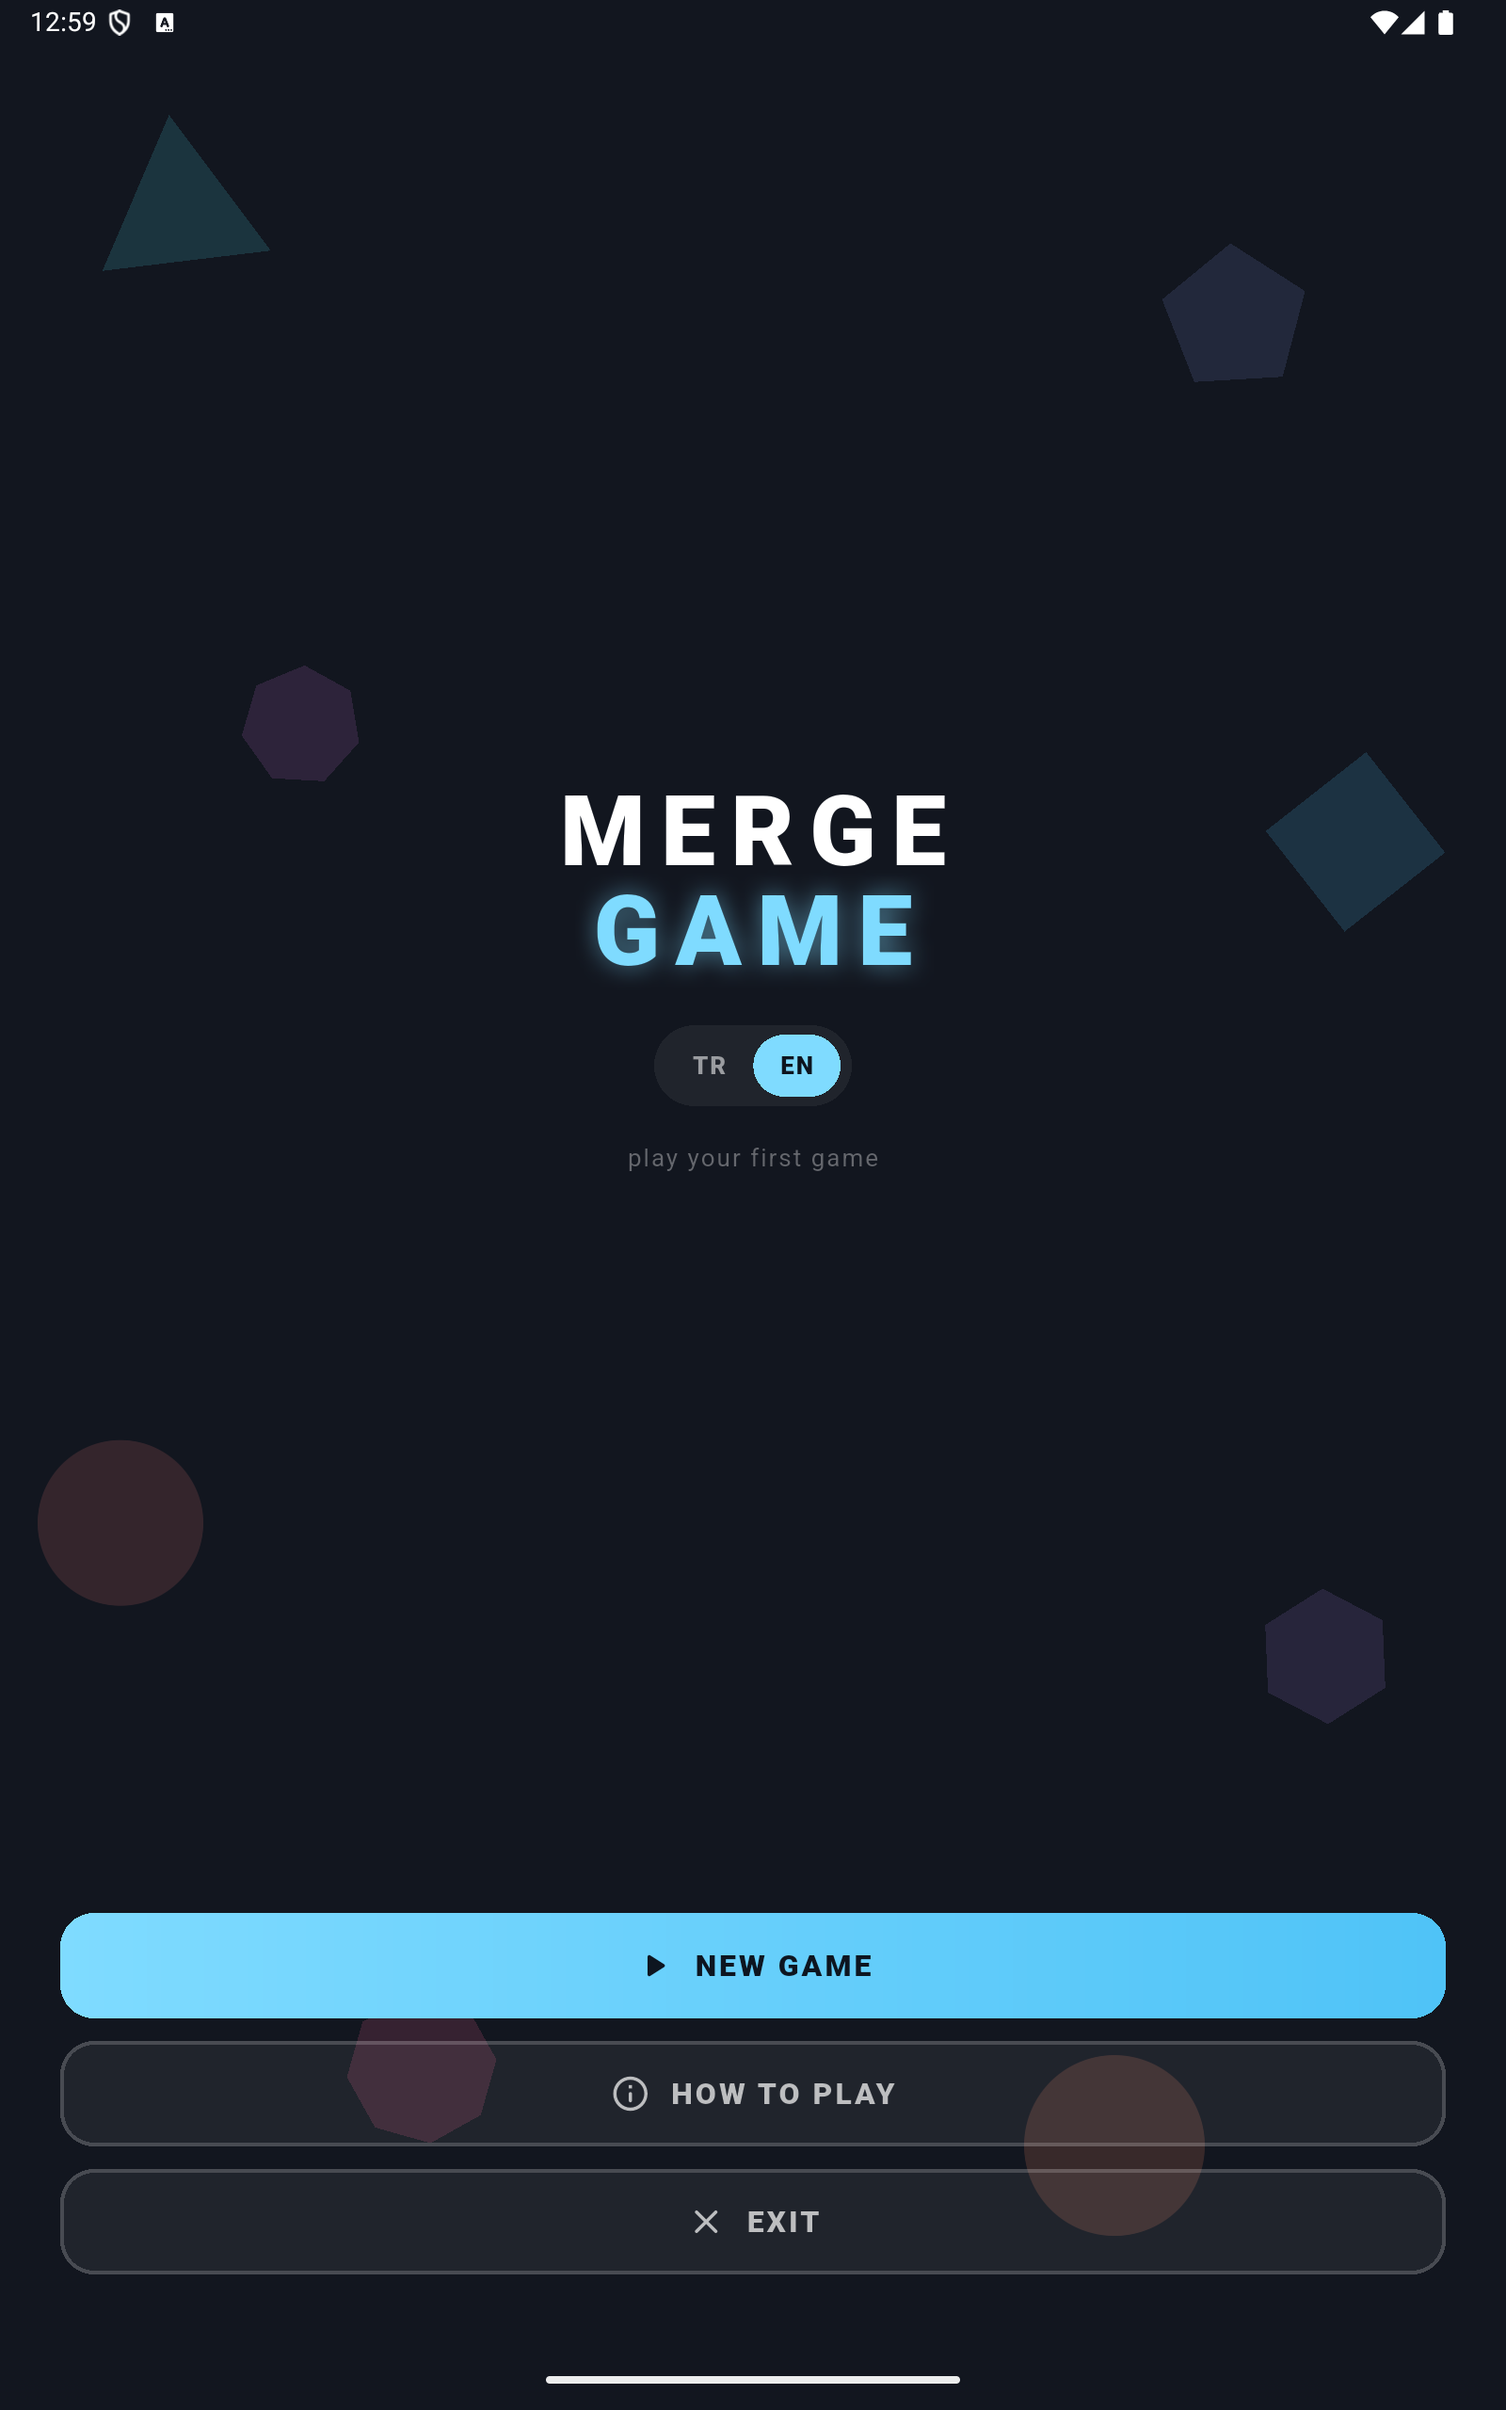
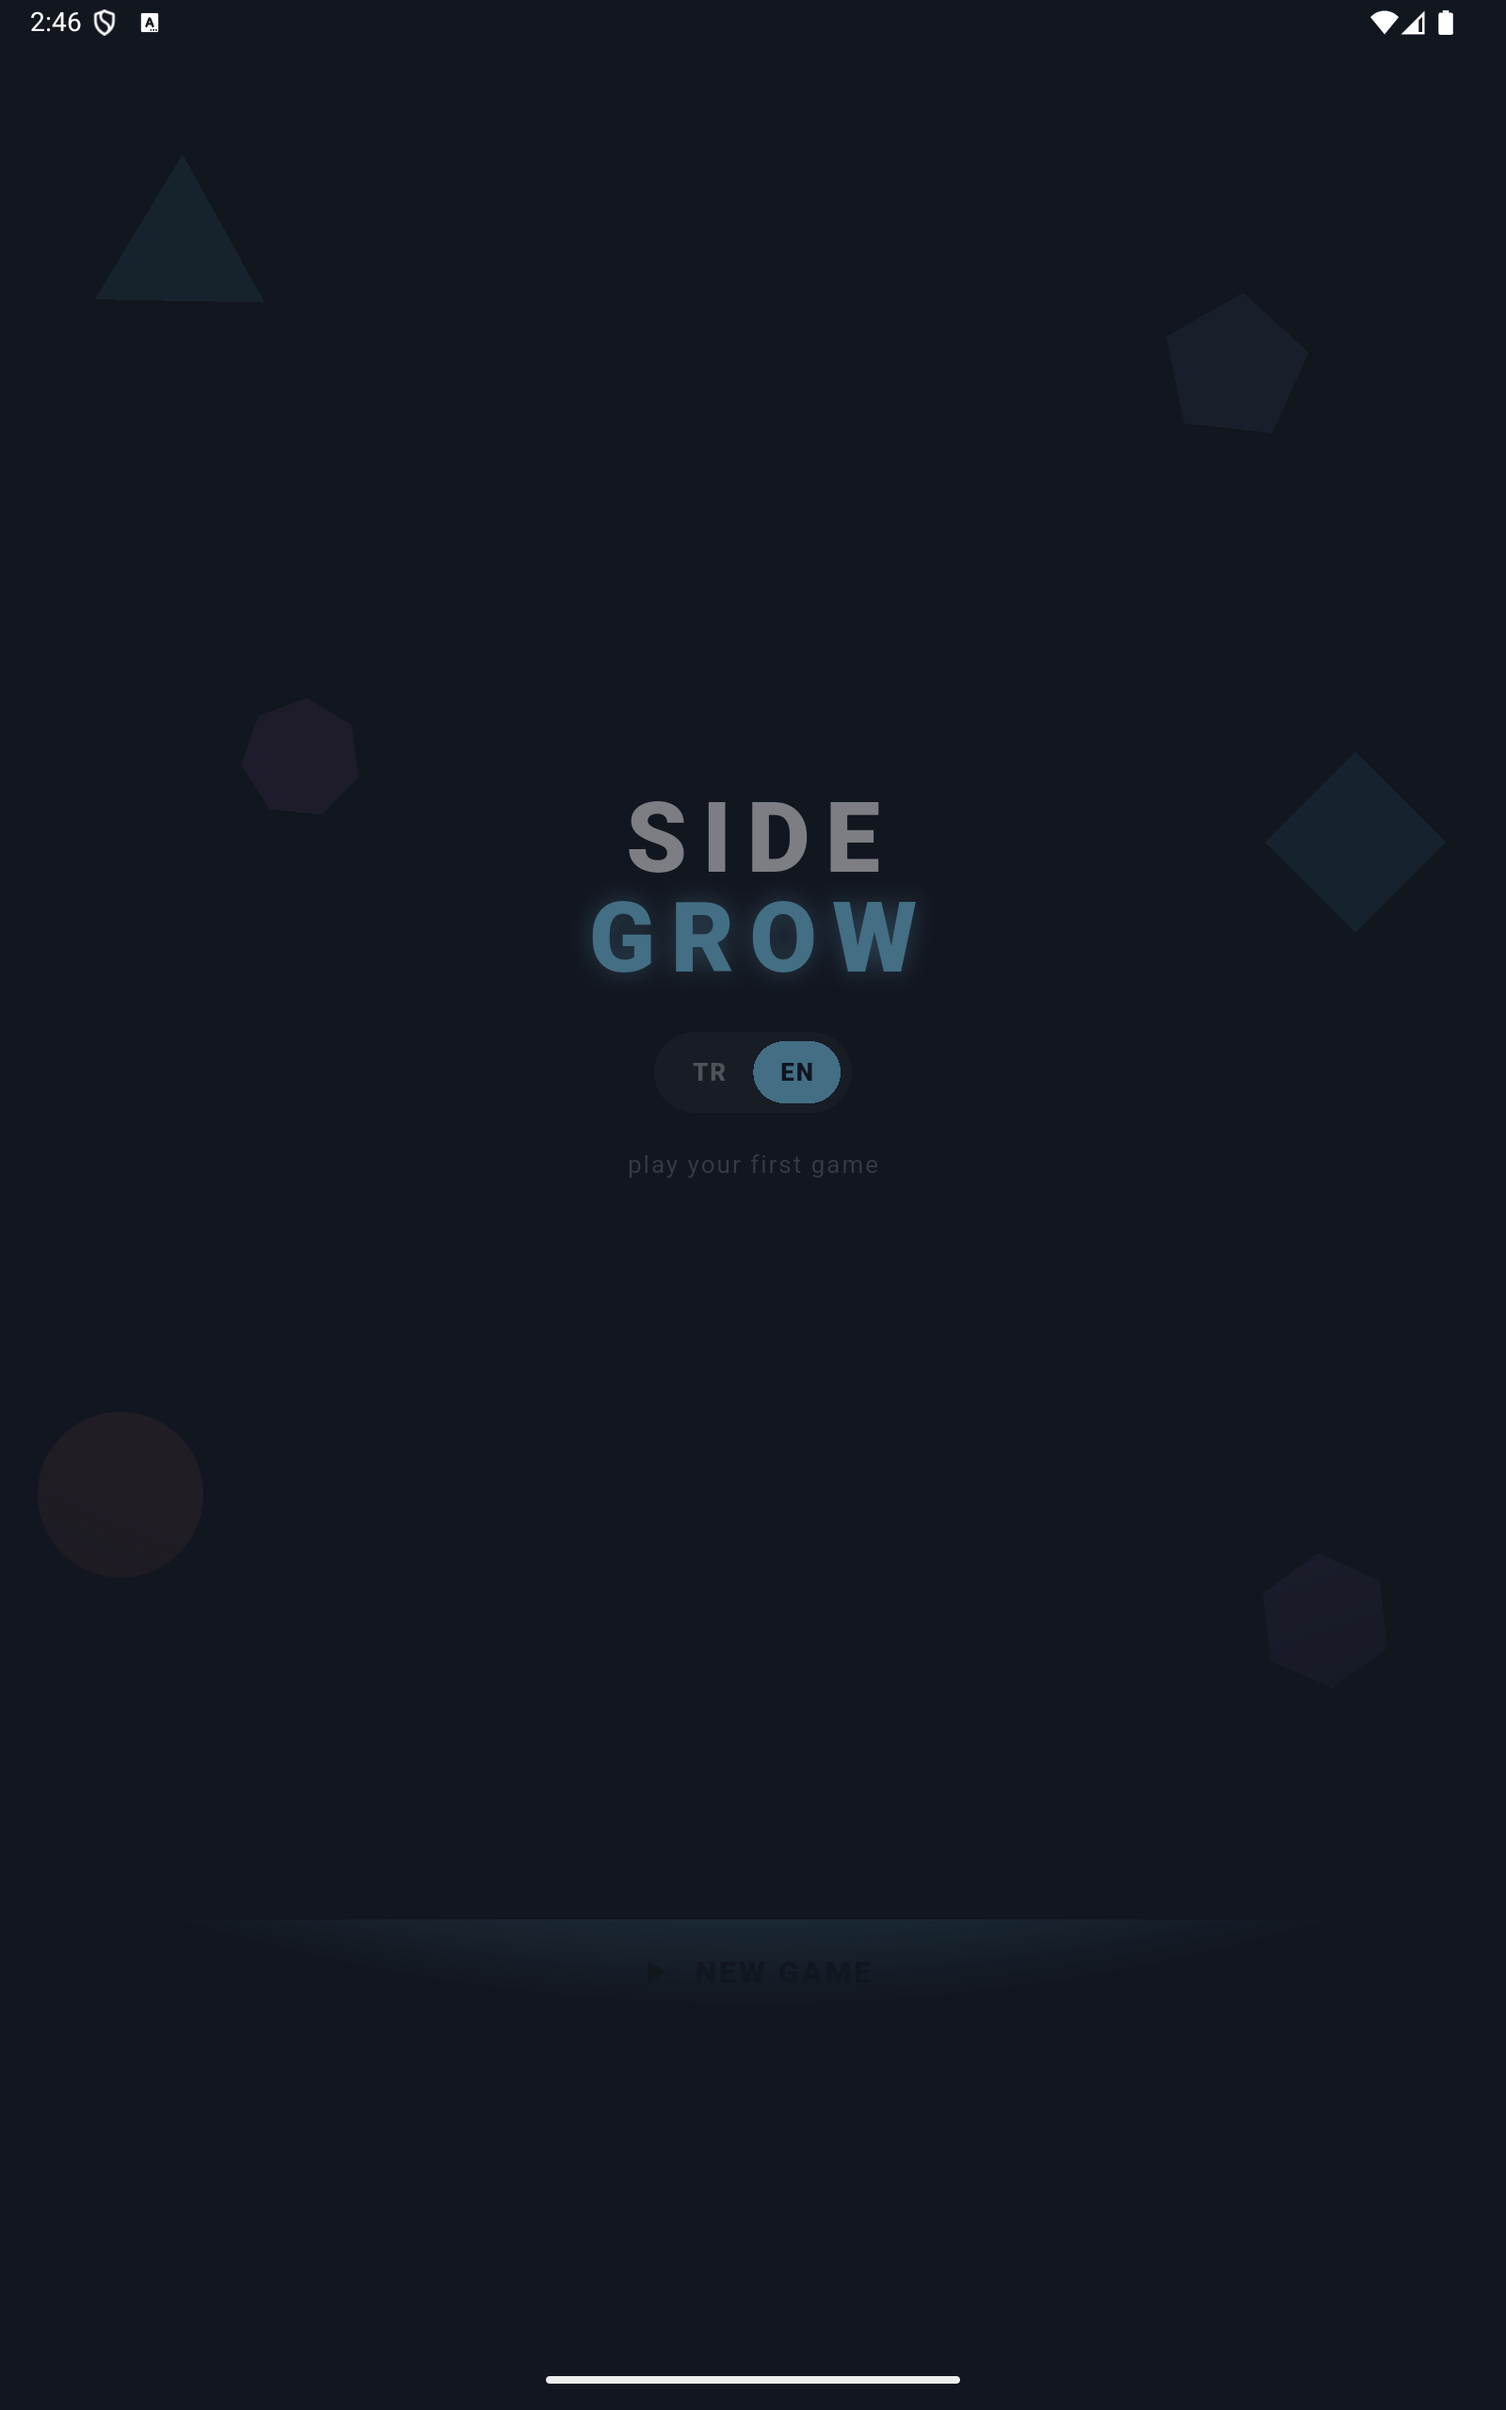
Oyunun adını Sidegrow yap
Merge Game adı Play Store'da işe yaramaz: "Numbers Merge", "Merge Numbers",
"2248 Numbers Merge", "X2 Puzzle: Number Merge 2048" gibi 50'den fazla
neredeyse aynı isim var ve hepsi 2048 türevi. Hem aramada görünme şansı yok,
hem de ad oyunu yanlış tanıtıyor: burada kaydırma yok, sayı ikiye katlanmıyor;
boş kareye yerleştiriyorsun ve seviye bir artıyor.

Sidegrow, oyunun asıl görsel dilini anlatıyor: her birleşmede şekil bir kenar
kazanıyor (LevelStyle.sidesOf = 2 + level), üçgen dörtgen olur, dörtgen
beşgen. Play Store aramasında hiç sonuç vermiyor.

Değişenler:
- android:label ve MaterialApp title
- strings.dart titleTop/titleBottom -> SIDE / GROW
- gizlilik politikası (TR + EN), STORE_LISTING, DATA_SAFETY, README
- ekran görüntüleri yeni adla yeniden alındı (telefon, 7 ve 10 inç, iki dil)

Paket adı com.bluelabsgames.mergegame olarak KALIYOR; kullanıcıya görünmüyor
ve yayınlandıktan sonra değiştirilemiyor. Sürüm 1.0.0+1 olarak kaldı, çünkü
bu oyun henüz hiçbir track'e yüklenmedi.

diff --git a/docs/privacy-policy.html b/docs/privacy-policy.html
@@ -3,7 +3,7 @@
 <head>
 <meta charset="utf-8">
 <meta name="viewport" content="width=device-width, initial-scale=1">
-<title>Gizlilik Politikası — Merge Game</title>
+<title>Gizlilik Politikası — Sidegrow</title>
 <style>
   :root { color-scheme: light dark; }
   body {
@@ -34,12 +34,12 @@
 </style>
 </head>
 <body>
-<h1>Merge Game — Gizlilik Politikası</h1>
+<h1>Sidegrow — Gizlilik Politikası</h1>
 <p class="dil">Türkçe · <a href="privacy-policy-en.html">English</a></p>
-<p class="kunye"><strong>Son güncelleme:</strong> 17 Ağustos 2026<br>
+<p class="kunye"><strong>Son güncelleme:</strong> 18 Ağustos 2026<br>
 <strong>Geliştirici:</strong> Blue Labs Games<br>
 <strong>İletişim:</strong> <a href="mailto:bluelabsgames@gmail.com">bluelabsgames@gmail.com</a></p>
-<p>Bu politika, <strong>Merge Game</strong> mobil oyununun kullanıcı verilerini nasıl ele aldığını açıklar.</p>
+<p>Bu politika, <strong>Sidegrow</strong> mobil oyununun kullanıcı verilerini nasıl ele aldığını açıklar.</p>
 
 <h2>Kısaca</h2>
 <p>Oyunun kendisi sizden hiçbir bilgi istemez. Hesap açmanız gerekmez, isim ya da e-posta sorulmaz, oyunun kendi analiz (analytics) aracı yoktur.</p>

diff --git a/docs/privacy-policy-en.html b/docs/privacy-policy-en.html
@@ -3,7 +3,7 @@
 <head>
 <meta charset="utf-8">
 <meta name="viewport" content="width=device-width, initial-scale=1">
-<title>Privacy Policy — Merge Game</title>
+<title>Privacy Policy — Sidegrow</title>
 <style>
   :root { color-scheme: light dark; }
   body {
@@ -34,12 +34,12 @@
 </style>
 </head>
 <body>
-<h1>Merge Game — Privacy Policy</h1>
+<h1>Sidegrow — Privacy Policy</h1>
 <p class="dil"><a href="privacy-policy.html">Türkçe</a> · English</p>
-<p class="kunye"><strong>Last updated:</strong> 17 August 2026<br>
+<p class="kunye"><strong>Last updated:</strong> 18 August 2026<br>
 <strong>Developer:</strong> Blue Labs Games<br>
 <strong>Contact:</strong> <a href="mailto:bluelabsgames@gmail.com">bluelabsgames@gmail.com</a></p>
-<p>This policy explains how the <strong>Merge Game</strong> mobile game handles user data.</p>
+<p>This policy explains how the <strong>Sidegrow</strong> mobile game handles user data.</p>
 
 <h2>In short</h2>
 <p>The game itself asks you for nothing. There is no account to create, no name or email is requested, and the game contains no analytics of our own.</p>

diff --git a/lib/i18n/strings.dart b/lib/i18n/strings.dart
@@ -26,8 +26,8 @@ class Strings {
       language == AppLanguage.tr ? tr : en;
 
   // --- Menü ---
-  String get titleTop => 'MERGE';
-  String get titleBottom => 'GAME';
+  String get titleTop => 'SIDE';
+  String get titleBottom => 'GROW';
   String get continueGame => _pick('DEVAM ET', 'CONTINUE');
   String get newGame => _pick('YENİ OYUN', 'NEW GAME');
   String get howToPlay => _pick('NASIL OYNANIR', 'HOW TO PLAY');

diff --git a/lib/main.dart b/lib/main.dart
@@ -66,7 +66,7 @@ class MergeApp extends StatelessWidget {
   @override
   Widget build(BuildContext context) {
     return MaterialApp(
-      title: 'Merge Game',
+      title: 'Sidegrow',
       debugShowCheckedModeBanner: false,
       // Dil kapsamı Navigator'ın üstünde olmalı: `home:` içine konursa
       // sonradan açılan sayfalar kapsamın dışında kalıyor.

diff --git a/store/DATA_SAFETY.md b/store/DATA_SAFETY.md
@@ -1,6 +1,6 @@
 # Play Console — Data Safety formu için cevaplar
 
-Merge Game'in **release** derlemesi incelenerek çıkarıldı. Formu doldururken
+Sidegrow'in **release** derlemesi incelenerek çıkarıldı. Formu doldururken
 bu tabloyu kullan.
 
 ## Özet
@@ -73,7 +73,7 @@ grep -oE 'android:name="[A-Za-z0-9_.]*permission[A-Za-z0-9_.]*"' \
 
 > Not: bu listede `ACCESS_ADSERVICES_AD_ID` **yok** — daha önceki sürümde
 > yanlışlıkla yazılmıştı. `RECEIVE_BOOT_COMPLETED` ise var ama eksikti.
-> İkisi de 17 Ağustos 2026'da manifest yeniden üretilerek düzeltildi.
+> İkisi de 18 Ağustos 2026'da manifest yeniden üretilerek düzeltildi.
 > Dört oyunun izin listesi birebir aynı.
 
 ## Kapalı test (closed testing) — beyan aynı kalıyor

diff --git a/docs/STORE_LISTING.md b/docs/STORE_LISTING.md
@@ -1,4 +1,4 @@
-# Play Store hazırlığı — Merge Game
+# Play Store hazırlığı — Sidegrow
 
 Bu dosya Play Console'a girilecek bilgileri bir arada tutuyor; her yayında
 formu sıfırdan doldurmamak için.
@@ -8,7 +8,7 @@ formu sıfırdan doldurmamak için.
 | Alan | Değer |
 | --- | --- |
 | Geliştirici adı | Blue Labs Games (dört oyunda da aynı) |
-| Uygulama adı | Merge Game |
+| Uygulama adı | Sidegrow |
 | Paket adı | `com.bluelabsgames.mergegame` (**bir daha değiştirilemez**) |
 | Kategori | Oyun → Bulmaca |
 | İçerik derecelendirmesi | Herkes (şiddet, satın alma, kullanıcı etkileşimi yok) |

diff --git a/PRIVACY_POLICY.md b/PRIVACY_POLICY.md
@@ -1,6 +1,6 @@
-# Merge Game — Gizlilik Politikası
+# Sidegrow — Gizlilik Politikası
 
-**Son güncelleme:** 17 Ağustos 2026
+**Son güncelleme:** 18 Ağustos 2026
 **Geliştirici:** Blue Labs Games
 **İletişim:** bluelabsgames@gmail.com
 
@@ -8,7 +8,7 @@ Yayındaki sürümler:
 [Türkçe](https://ozge07.github.io/merge-game/privacy-policy.html) ·
 [English](https://ozge07.github.io/merge-game/privacy-policy-en.html)
 
-Bu politika, **Merge Game** mobil oyununun kullanıcı verilerini nasıl ele
+Bu politika, **Sidegrow** mobil oyununun kullanıcı verilerini nasıl ele
 aldığını açıklar.
 
 ## Kısaca

diff --git a/README.md b/README.md
@@ -1,4 +1,4 @@
-# Merge Game
+# Sidegrow
 
 Flutter + Flame ile yapılmış birleştirme oyunu. 5x5 tahtada aynı seviyeden
 objeleri birleştirip daha yükseğine çıkıyorsun.
